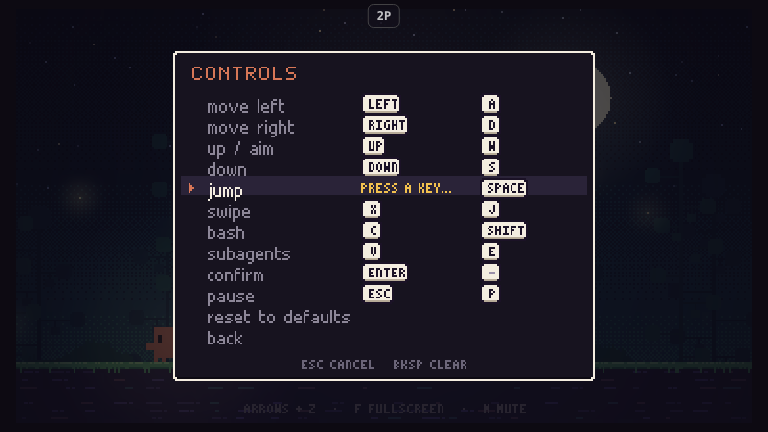
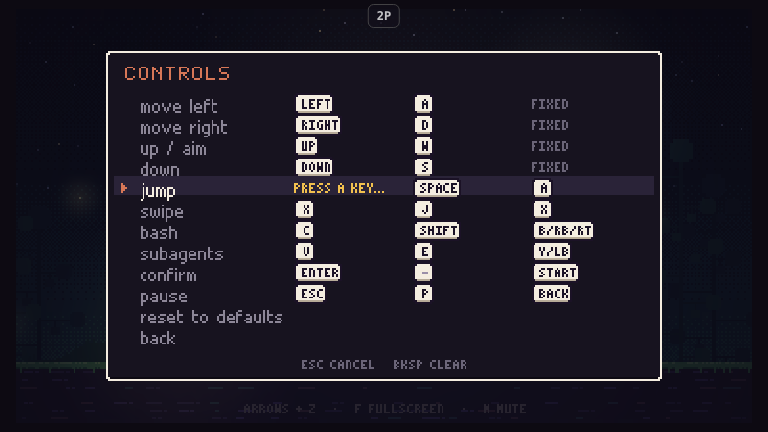
K3: gamepad button remapping (pad column in the controls screen)
Claude-Session: https://claude.ai/code/session_01E9cXK5ny6fXJHwHFWph3DB

diff --git a/clawd-coop/index.html b/clawd-coop/index.html
@@ -138,6 +138,8 @@
     jump: ['KeyZ', 'Space'], attack: ['KeyX', 'KeyJ'], dash: ['KeyC', 'ShiftLeft'], special: ['KeyV', 'KeyE'],
     start: ['Enter', null], pause: ['Escape', 'KeyP'],
   };
+  const DEFAULT_PAD = { jump: [0], attack: [2], dash: [1, 5, 7], special: [3, 4], start: [9], pause: [8] };     // d-pad and left stick stay fixed for movement
+  const PAD_ACTIONS = Object.keys(DEFAULT_PAD);
   const RESERVED_KEYS = ['KeyF', 'KeyM', 'Tab'];     // fullscreen, mute, focus: never bindable
   const ACTIONS = ['left', 'right', 'up', 'down', 'jump', 'attack', 'dash', 'special', 'start', 'pause'];
   const held = {}, queued = {}, prev = {};
@@ -166,6 +168,7 @@
   window.addEventListener('pointerdown', () => { if (G.audio) G.audio.unlock(); anyQueued = true; });
 
   input.defaultKeys = () => JSON.parse(JSON.stringify(DEFAULT_KEYS));
+  input.padActions = PAD_ACTIONS;
   input.reserved = (code) => RESERVED_KEYS.includes(code);
   input.rebuild = () => {
     const sv = G.save && G.save.data.keys, b = (input.binds = {});
@@ -175,9 +178,13 @@
       b[a] = [0, 1].map((i) => (typeof src[i] === 'string' && !RESERVED_KEYS.includes(src[i]) ? src[i] : null));
       for (const c of b[a]) if (c) KEYMAP[c] = a;
     }
+    const sp = (sv && sv.pad) || {}, pb = (input.padBinds = {});
+    for (const a of PAD_ACTIONS) pb[a] = (a in sp ? [].concat(sp[a]) : DEFAULT_PAD[a]).filter((i) => Number.isInteger(i) && i >= 0 && i < 32);
     for (const a of ACTIONS) held[a] = 0;
     for (const k in held) if (k[0] === '_') held[k] = null;
   };
+  const PAD_NAMES = ['A', 'B', 'X', 'Y', 'LB', 'RB', 'LT', 'RT', 'BACK', 'START', 'L3', 'R3', 'UP', 'DOWN', 'LEFT', 'RIGHT', 'HOME'];
+  G.padLabel = (i) => PAD_NAMES[i] || 'BTN' + i;
   const KEY_NAMES = { ArrowLeft: 'LEFT', ArrowRight: 'RIGHT', ArrowUp: 'UP', ArrowDown: 'DOWN', Space: 'SPACE', ShiftLeft: 'SHIFT', ShiftRight: 'SHIFT', ControlLeft: 'CTRL', ControlRight: 'CTRL', AltLeft: 'ALT', AltRight: 'ALT', Escape: 'ESC', Enter: 'ENTER', NumpadEnter: 'ENTER', Backspace: 'BKSP', Delete: 'DEL', Minus: '-', Equal: '=', BracketLeft: '[', BracketRight: ']', Semicolon: ';', Quote: "'", Backquote: '`', Backslash: '\\', Comma: ',', Period: '.', Slash: '/', CapsLock: 'CAPS', Insert: 'INS', Home: 'HOME', End: 'END', PageUp: 'PGUP', PageDown: 'PGDN' };
   G.keyLabel = (code) => {
     if (!code) return '';
@@ -201,12 +208,14 @@
       const ax = p.axes[0] || 0, ay = p.axes[1] || 0;
       const s = {
         left: b(14) || ax < -0.4, right: b(15) || ax > 0.4, up: b(12) || ay < -0.55, down: b(13) || ay > 0.55,
-        jump: b(0), attack: b(2), dash: b(1) || b(5) || b(7), special: b(3) || b(4), start: b(9), pause: b(8),
       };
+      for (const a of PAD_ACTIONS) s[a] = input.padBinds[a].some(b);
       for (const a of ACTIONS) if (s[a]) { state[a] = true; input.padActive = true; }
       break;
     }
   }
+  // after a rebinding: buttons held right now must not count as a fresh press under the new mapping
+  input.settle = () => { const st = {}; if (padSeen) pollPad(st); for (const a of ACTIONS) if (st[a]) prev[a] = true; };
   // called once per fixed update
   input.poll = () => {
     const state = {};
@@ -244,7 +253,7 @@
     deaths: 0, tokens: 0, finished: false,
     opt: { music: 0.7, sfx: 0.8, voice: 1, shake: 1, min: 0, diffPreset: 'normal', bossPct: 0, npcExtra: 0, npcMult: 100 },
     coopDiff: { preset: 'coop', bossPct: 50, npcExtra: 0, npcMult: 100 },     // the difficulty profile used while hosting a co-op game
-    keys: null,             // custom key bindings { action: [code, code] }; null = defaults. Survives "erase save", like opt.
+    keys: null,             // custom key bindings { action: [code, code], pad: { action: [button, ...] } }; null = defaults. Survives "erase save", like opt.
   });
   G.save = {
     data: fresh(),
@@ -5682,10 +5691,19 @@ G.VOICE = {
     const ROWS = [['left', 'move left'], ['right', 'move right'], ['up', 'up / aim'], ['down', 'down'], ['jump', 'jump'], ['attack', 'swipe'], ['dash', 'bash'], ['special', 'subagents'], ['start', 'confirm'], ['pause', 'pause']];
     const NEEDED = ['left', 'right', 'up', 'down', 'jump', 'attack', 'pause'];     // these keep at least one key, or the menus could not be reached
     const n = ROWS.length + 2;
-    const clone = () => { const k = {}; for (const [a] of ROWS) k[a] = G.input.binds[a].slice(); return k; };
-    let sel = 0, slot = 0, cap = false, note = '', noteT = 0;
+    const clone = () => { const k = { pad: {} }; for (const [a] of ROWS) k[a] = G.input.binds[a].slice(); for (const a of G.input.padActions) k.pad[a] = G.input.padBinds[a].slice(); return k; };
+    const slots = () => (G.input.padActions.includes(ROWS[sel] && ROWS[sel][0]) ? 3 : 2);     // key 1, key 2, pad button(s)
+    let sel = 0, slot = 0, cap = false, capPad = null, note = '', noteT = 0;
     const say = (t) => { note = t; noteT = 1.5; };
-    const commit = (keys) => { SV().keys = keys; G.save.write(); G.input.rebuild(); G.input.clear(); };
+    const commit = (keys) => { SV().keys = keys; G.save.write(); G.input.rebuild(); G.input.settle(); G.input.clear(); };
+    const assignPad = (a, btn) => {
+      const keys = clone(); let from = '';
+      if (btn >= 12 && btn <= 15) { say('the d-pad is fixed for moving'); A.sfx('warn'); return; }
+      for (const b of G.input.padActions) if (b !== a && keys.pad[b].includes(btn)) { keys.pad[b] = keys.pad[b].filter((x) => x !== btn); from = b; }
+      keys.pad[a] = [btn];
+      if (from) say(G.padLabel(btn) + ' taken from ' + from);
+      commit(keys); A.sfx('uiOk');
+    };
     const assign = (a, i, code) => {
       const keys = clone(), old = keys[a][i];
       if (code === old) return;
@@ -5702,13 +5720,16 @@ G.VOICE = {
     };
     const clearSlot = (a, i) => {
       const keys = clone();
+      if (i === 2) { keys.pad[a] = []; commit(keys); A.sfx('uiBack'); return; }
       if (NEEDED.includes(a) && !keys[a][1 - i]) { say('needs at least one key'); A.sfx('warn'); return; }
       keys[a][i] = null; commit(keys); A.sfx('uiBack');
     };
+    const pads = () => { const l = []; for (const p of navigator.getGamepads ? navigator.getGamepads() : []) if (p && p.connected) { p.buttons.forEach((b, i) => { if (b.pressed) l.push(i); }); break; } return l; };
     const listen = () => {
-      cap = true;
+      cap = true; capPad = slot === 2 ? pads() : null;     // buttons already down are ignored until they are let go
       G.input.capture = (code) => {
-        G.input.capture = null; cap = false;
+        if (slot === 2 && code !== 'Escape' && code !== 'Backspace' && code !== 'Delete') return;     // waiting for a pad button
+        G.input.capture = null; cap = false; capPad = null;
         const a = ROWS[sel][0];
         if (code === 'Escape') { A.sfx('uiBack'); return; }
         if (code === 'Backspace' || code === 'Delete') { clearSlot(a, slot); return; }
@@ -5719,11 +5740,19 @@ G.VOICE = {
     return {
       update(dt) {
         if (noteT > 0) noteT -= dt;
-        if (cap) return;
+        if (cap) {
+          if (capPad) {
+            const now = pads(), fresh = now.filter((i) => !capPad.includes(i));
+            capPad = capPad.filter((i) => now.includes(i));
+            if (fresh.length) { const a = ROWS[sel][0]; G.input.capture = null; cap = false; capPad = null; assignPad(a, fresh[0]); }
+          }
+          return;
+        }
         const I = G.input;
         if (I.pressed.down) { sel = (sel + 1) % n; A.sfx('uiMove'); }
         if (I.pressed.up) { sel = (sel + n - 1) % n; A.sfx('uiMove'); }
-        if (sel < ROWS.length && (I.pressed.left || I.pressed.right)) { slot = 1 - slot; A.sfx('uiMove'); }
+        if (I.pressed.left || I.pressed.right) { if (sel < ROWS.length) slot = G.clamp(slot + (I.pressed.right ? 1 : -1), 0, slots() - 1); A.sfx('uiMove'); }
+        if (sel < ROWS.length) slot = Math.min(slot, slots() - 1);
         if (I.ok) {
           if (sel < ROWS.length) { A.sfx('uiOk'); listen(); }
           else if (sel === ROWS.length) { commit(null); say('defaults restored'); A.sfx('uiOk'); }
@@ -5731,7 +5760,7 @@ G.VOICE = {
         } else if (I.back) { A.sfx('uiBack'); onClose(); }
       },
       draw(ug) {
-        const rh = 11, pw = 220, ph = n * rh + 40, x = (W - pw) / 2, y = (H - ph) / 2;
+        const rh = 11, pw = 290, ph = n * rh + 40, x = (W - pw) / 2, y = (H - ph) / 2;
         ug.fillStyle = 'rgba(13,10,18,0.72)'; ug.fillRect(0, 0, W, H);
         G.panel(ug, x, y, pw, ph, '#17131f', C.paper, '#0d0a12');
         G.text(ug, 'CONTROLS', x + 10, y + 8, C.clawd, { sp: 2 });
@@ -5741,14 +5770,16 @@ G.VOICE = {
           if (i >= ROWS.length) { G.text(ug, i === ROWS.length ? 'reset to defaults' : 'back', x + 18, yy + 1, on ? C.paper : C.dim); continue; }
           const a = ROWS[i][0];
           G.text(ug, ROWS[i][1], x + 18, yy + 1, on ? C.paper : C.dim);
-          for (let j = 0; j < 2; j++) {
-            const cx = x + 98 + j * 62, code = G.input.binds[a][j], me = on && j === slot;
-            if (me && cap) { G.text(ug, 'press a key...', cx, yy + 1, C.gold, { tiny: true }); continue; }
-            const w = G.keycap(ug, cx, yy - 2, code ? G.keyLabel(code) : '-', code ? undefined : '#9a8fa8');
+          for (let j = 0; j < 3; j++) {
+            const cx = x + 98 + j * 62, me = on && j === slot;
+            if (j === 2 && !G.input.padActions.includes(a)) { G.text(ug, 'fixed', cx, yy + 1, '#6b6578', { tiny: true }); continue; }
+            if (me && cap) { G.text(ug, j === 2 ? 'press button' : 'press a key...', cx, yy + 1, C.gold, { tiny: true }); continue; }
+            const code = j < 2 ? G.input.binds[a][j] : 1, label = j < 2 ? (code ? G.keyLabel(code) : '-') : (G.input.padBinds[a].map(G.padLabel).join('/') || '-');
+            const w = G.keycap(ug, cx, yy - 2, label, label === '-' ? '#9a8fa8' : undefined);
             if (me) { ug.strokeStyle = C.clawd; ug.lineWidth = 1; ug.strokeRect(cx - 0.5, yy - 2.5, w + 1, 12); }
           }
         }
-        const hint = cap ? 'esc cancel   bksp clear' : noteT > 0 ? note : 'jump: change   left/right: key 1 or 2';
+        const hint = cap ? 'esc cancel   bksp clear' : noteT > 0 ? note : 'jump: change   left/right: key 1 / key 2 / pad';
         G.text(ug, hint, W / 2, y + ph - 11, noteT > 0 && !cap ? C.gold : '#6b6578', { tiny: true, align: 'c' });
       },
     };

diff --git a/clawd-coop/tools/scenarios-controls.js b/clawd-coop/tools/scenarios-controls.js
@@ -72,4 +72,29 @@ module.exports = (S, h) => {
     const ok = Object.values(out).every(Boolean);
     return R(ok, JSON.stringify(out));
   });
+
+  S['keys-pad'] = () => solo(async (page) => {
+    await page.evaluate(() => {
+      window.__btn = new Set();
+      navigator.getGamepads = () => [{ connected: true, axes: [0, 0], buttons: Array.from({ length: 17 }, (_, i) => ({ pressed: window.__btn.has(i) })) }];
+      window.dispatchEvent(new Event('gamepadconnected'));
+      G.save.data.started = false; G.setScene(G.Scenes.title(true)); G.step(200, true);
+    });
+    await tap(page, 'Enter'); await page.evaluate(() => G.step(200, true));
+    await tap(page, 'ArrowDown'); await tap(page, 'Enter'); await taps(page, 'ArrowDown', 10); await tap(page, 'Enter');
+    const out = {}, step = (n) => page.evaluate((n) => G.step(n, true), n), btn = (i, on) => page.evaluate(([i, on]) => { on ? window.__btn.add(i) : window.__btn.delete(i); }, [i, on]);
+    const jumpDown = async () => { await step(2); return page.evaluate(() => G.input.down.jump); };
+    await taps(page, 'ArrowDown', 4); await taps(page, 'ArrowRight', 2);   // jump row, pad slot
+    await btn(0, true); await tap(page, 'Enter'); await step(3);              // A is held when the capture starts: it must be ignored
+    out.heldIgnored = await page.evaluate(() => !!G.input.capture) && (await page.evaluate(() => G.input.padBinds.jump.join())) === '0';
+    await btn(6, true); await step(3);                                         // the next fresh press: button 6
+    out.bound = await page.evaluate(() => G.input.padBinds.jump.join() + '|' + G.save.data.keys.pad.jump.join());
+    out.swallowed = !(await page.evaluate(() => !!G.input.capture));        // capture ended, and the button held down did not re-open it
+    out.six = await jumpDown();
+    await btn(6, false); out.up = !(await jumpDown());
+    await btn(0, true); out.oldA = !(await jumpDown()); await btn(0, false);
+    out.dashKept = await page.evaluate(() => G.input.padBinds.dash.join());
+    out.ok = out.heldIgnored && out.bound === '6|6' && out.six === true && out.up === true && out.oldA === true && out.dashKept === '1,5,7';
+    return R(out.ok, JSON.stringify(out));
+  });
 };
